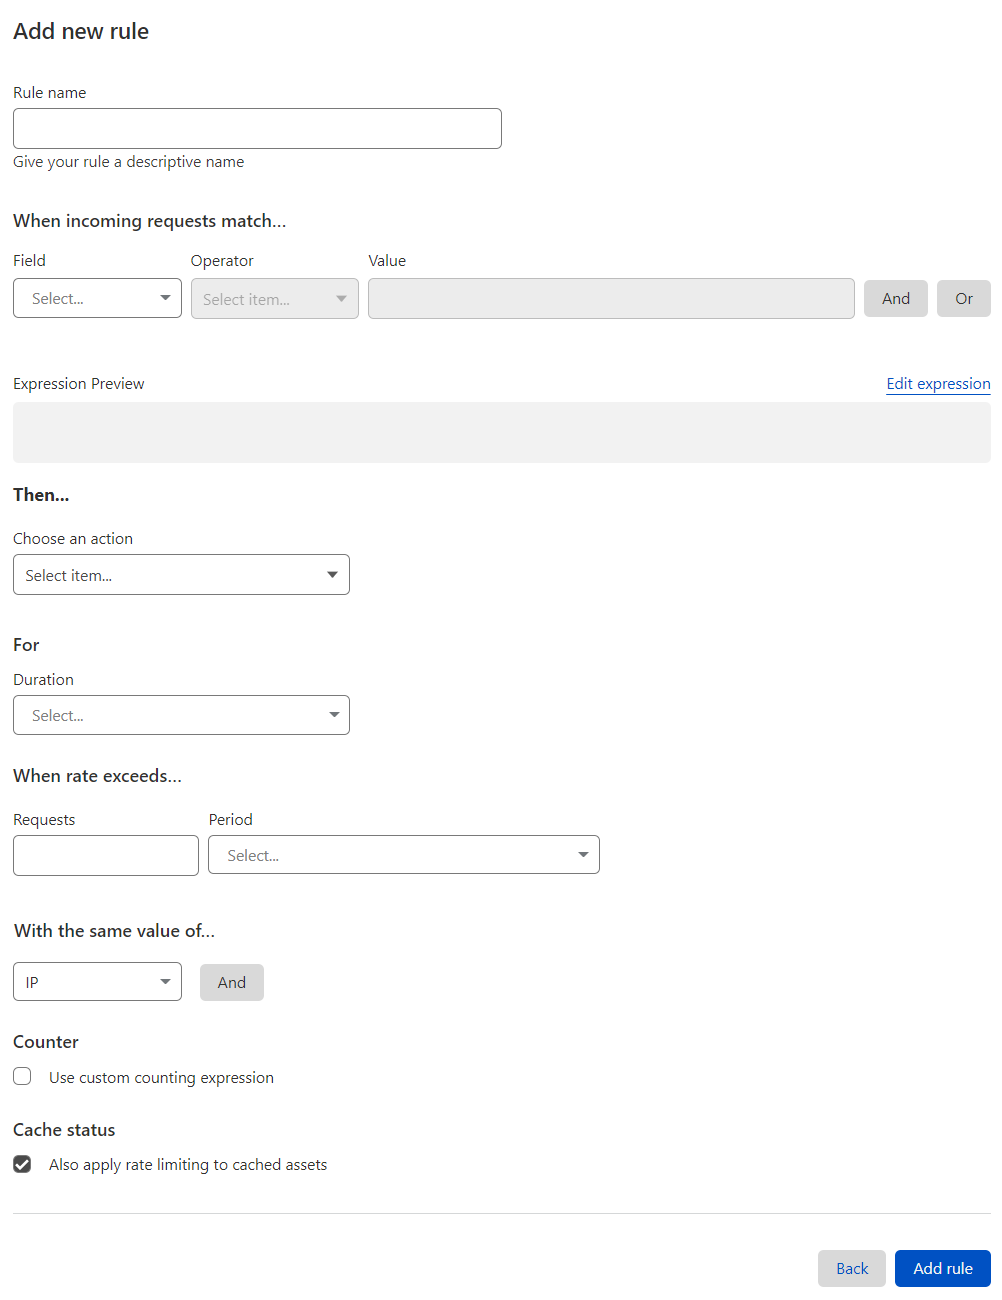
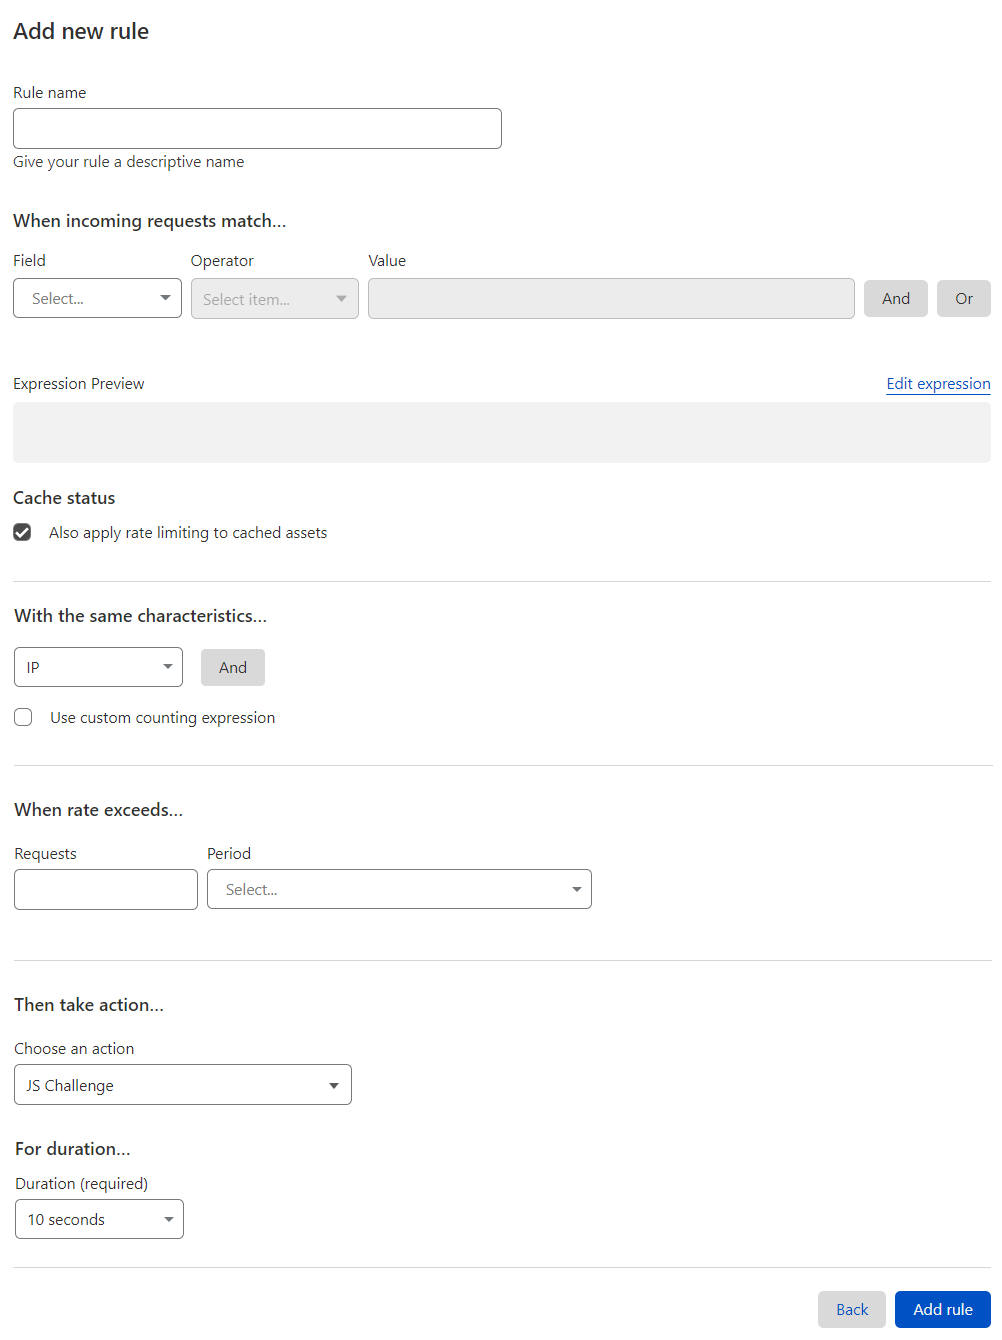
[WAF] update rate limiting rules dashboard instructions (#11078)
* Update account-level dashboard instructions
* Update zone-level dashboard instructions

diff --git a/content/waf/rate-limiting-rules/create-account-dashboard.md b/content/waf/rate-limiting-rules/create-account-dashboard.md
@@ -36,21 +36,23 @@ To create a new custom rate limiting ruleset:
 
 7. Under **When incoming requests match**, use the **Field** drop-down list to choose an HTTP property. For each request, the value of the property you choose for **Field** is compared to the value you specify for **Value** using the operator selected in **Operator**.
 
-8. Select the rule action from the **Choose an action** drop-down list. For example, selecting _Block_ tells Cloudflare to refuse requests in the conditions you specified when the request limit is reached.
+8. (Optional) Under **Cache status**, disable **Also apply rate limiting to cached assets** to consider only the requests that reach the origin when determining the rate.
 
-9. (Optional) If you selected the _Block_ action, you can [configure a custom response](#configuring-a-custom-response-for-blocked-requests) for requests exceeding the configured rate limit.
-
-10. Under **For**, select the mitigation timeout in **Duration**. This is the time period during which Cloudflare applies the select action once the rate is reached.
-
-11. Under **When rate exceeds**, define the maximum number of requests and the time period to consider when determining the rate.
-
-12. Under **With the same value of**, configure the characteristics that will define the request counters for rate limiting purposes. Each value combination will have its own counter to determine the rate. Refer to [How Cloudflare determines the request rate](/waf/rate-limiting-rules/request-rate/) for more information.
+9. Under **With the same characteristics**, configure the characteristics that will define the request counters for rate limiting purposes. Each value combination will have its own counter to determine the rate. Refer to [How Cloudflare determines the request rate](/waf/rate-limiting-rules/request-rate/) for more information.
 
     The available characteristics depend on your Cloudflare plan and product subscriptions.
 
-13. (Optional) Under **Counter**, enable **Use custom counting expression** to define an expression that specifies the conditions for incrementing the rate counter. By default, the counting expression is the same as the rule expression. The counting expression can include [response fields](/ruleset-engine/rules-language/fields/#http-response-fields).
+10. (Optional) To define an expression that specifies the conditions for incrementing the rate counter, enable **Use custom counting expression** and set the expression. By default, the counting expression is the same as the rule expression. The counting expression can include [response fields](/ruleset-engine/rules-language/fields/#http-response-fields).
 
-14. (Optional) Under **Cache status**, disable **Also apply rate limiting to cached assets** to consider only the requests that reach the origin when determining the rate.
+11. Under **When rate exceeds**, define the maximum number of requests and the time period to consider when determining the rate.
+
+12. Under **Then take action**, select the rule action from the **Choose an action** drop-down list. For example, selecting _Block_ tells Cloudflare to refuse requests in the conditions you specified when the request limit is reached.
+
+13. (Optional) If you selected the _Block_ action, you can [configure a custom response](#configuring-a-custom-response-for-blocked-requests) for requests exceeding the configured rate limit.
+
+14. Select the mitigation timeout in the **Duration** dropdown. This is the time period during which Cloudflare applies the select action once the rate is reached.
+
+    Enterprise customers with a paid add-on can [throttle requests](/waf/rate-limiting-rules/parameters/#with-the-following-behavior) instead of applying the configured action for a selected duration. To throttle requests, under **With the following behavior** select _Throttle requests over the maximum configured rate_.
 
 15. Select **Add rule**.
 
@@ -74,7 +76,7 @@ To deploy a custom rate limiting ruleset to one or more zones on an Enterprise p
 Deployed custom rate limiting rulesets will only apply to incoming traffic of zones on an Enterprise plan. The Expression Builder will automatically include this filter. If you define a custom expression using the Expression Editor, you must include `AND zone.level eq "ENT"` in your expression so that the rule only applies to zones on an Enterprise plan.
     {{</Aside>}}
 
-6. To deploy your rule immediately, select **Deploy**. If you are not ready to deploy your rule, select **Save as draft**.
+6. To deploy your rule immediately, select **Deploy**. If you are not ready to deploy your rule, select **Save as Draft**.
 
 The **Deployed custom rate limiting rulesets** list will show a rule for each deployed custom rate limiting ruleset.
 

diff --git a/content/waf/rate-limiting-rules/create-zone-dashboard.md b/content/waf/rate-limiting-rules/create-zone-dashboard.md
@@ -25,7 +25,7 @@ meta:
 
 7. Under **With the same characteristics**, add one or more characteristics that will define the request counters for rate limiting purposes. Each value combination will have its own counter to determine the rate. Refer to [How Cloudflare determines the request rate](/waf/rate-limiting-rules/request-rate/) for more information.
 
-8. (Optional) Enable **Use custom counting expression** to define an expression that specifies the conditions for incrementing the rate counter. By default, the counting expression is the same as the rule expression. The counting expression can include [response fields](/ruleset-engine/rules-language/fields/#http-response-fields).
+8. (Optional) To define an expression that specifies the conditions for incrementing the rate counter, enable **Use custom counting expression** and set the expression. By default, the counting expression is the same as the rule expression. The counting expression can include [response fields](/ruleset-engine/rules-language/fields/#http-response-fields).
 
 9. Under **When rate exceeds**, define the maximum number of requests and the time period to consider when determining the rate.
 
@@ -33,7 +33,9 @@ meta:
 
 11. (Optional) If you selected the _Block_ action, you can [configure a custom response](#configuring-a-custom-response-for-blocked-requests) for requests exceeding the configured rate limit.
 
-12. Under **For duration**, select the mitigation timeout in **Duration**. This is the time period during which Cloudflare applies the select action once the rate is reached.
+12. Select the mitigation timeout in the **Duration** dropdown. This is the time period during which Cloudflare applies the select action once the rate is reached.
+
+    Enterprise customers with a paid add-on can [throttle requests](/waf/rate-limiting-rules/parameters/#with-the-following-behavior) instead of applying the configured action for a selected duration. To throttle requests, under **With the following behavior** select _Throttle requests over the maximum configured rate_.
 
 13. To save and deploy your rule, select **Deploy**. If you are not ready to deploy your rule, select **Save as Draft**.
 
